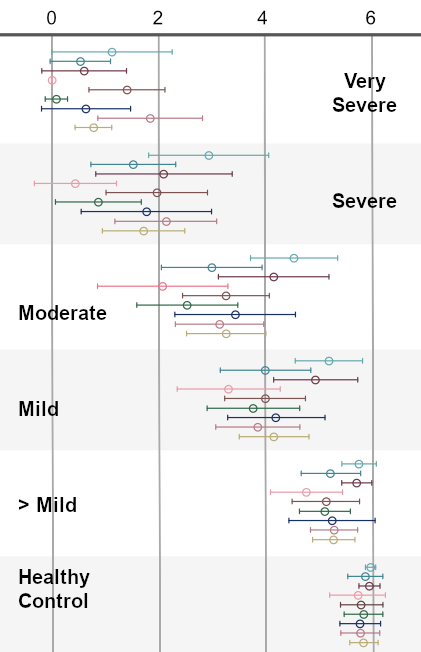
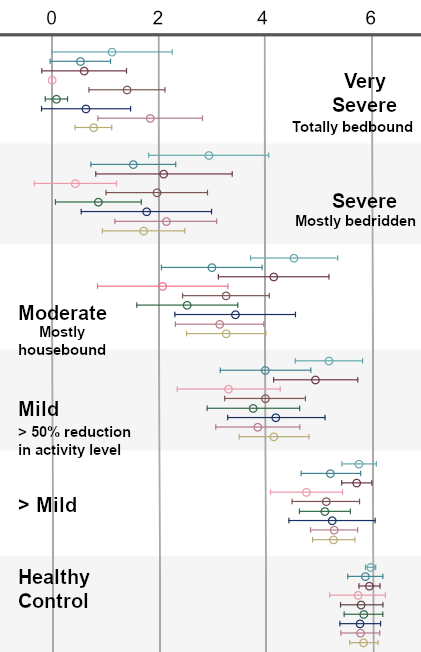
updated graph image with severety description

diff --git a/index.html b/index.html
@@ -8,6 +8,13 @@
     <title>FUNCAP55 Functional Capacity</title>
 
     <script src="./index.js" defer></script>
+    <script
+      src="https://cdnjs.cloudflare.com/ajax/libs/html2pdf.js/0.10.1/html2pdf.bundle.min.js"
+      integrity="sha512-GsLlZN/3F2ErC5ifS5QtgpiJtWd43JWSuIgh7mbzZ8zBps+dvLusV+eNQATqgA/HdeKFVgA5v3S/cIrLF7QnIg=="
+      crossorigin="anonymous"
+      referrerpolicy="no-referrer"
+      defer
+    ></script>
   </head>
   <body onload="loadFormDataOnLoad()">
     <div class="container">
@@ -1082,6 +1089,7 @@
         <div class="buttons">
           <button id="clearAll" class="btn">CLEAR ALL</button>
           <button id="saveAll" class="btn">SAVE</button>
+          <button id="savetoPDF" class="btn hidden">SAVE TO PDF</button>
         </div>
       </div>
       <div id="summary" class="summary">

diff --git a/index.js b/index.js
@@ -28,6 +28,7 @@ const saveF = document.getElementById("saveF");
 const saveG = document.getElementById("saveG");
 const saveH = document.getElementById("saveH");
 const saveAll = document.getElementById("saveAll");
+const saveToPDF = document.getElementById("savetoPDF");
 
 const answers = document.getElementById("answers");
 const summary = document.getElementById("summary");
@@ -573,6 +574,10 @@ saveH.addEventListener("click", function () {
 
 saveAll.addEventListener("click", function () {
   saveFormData();
+});
+
+saveToPDF.addEventListener("click", function () {
+  html2pdf(answers);
 });
 
 if (showKey) {
